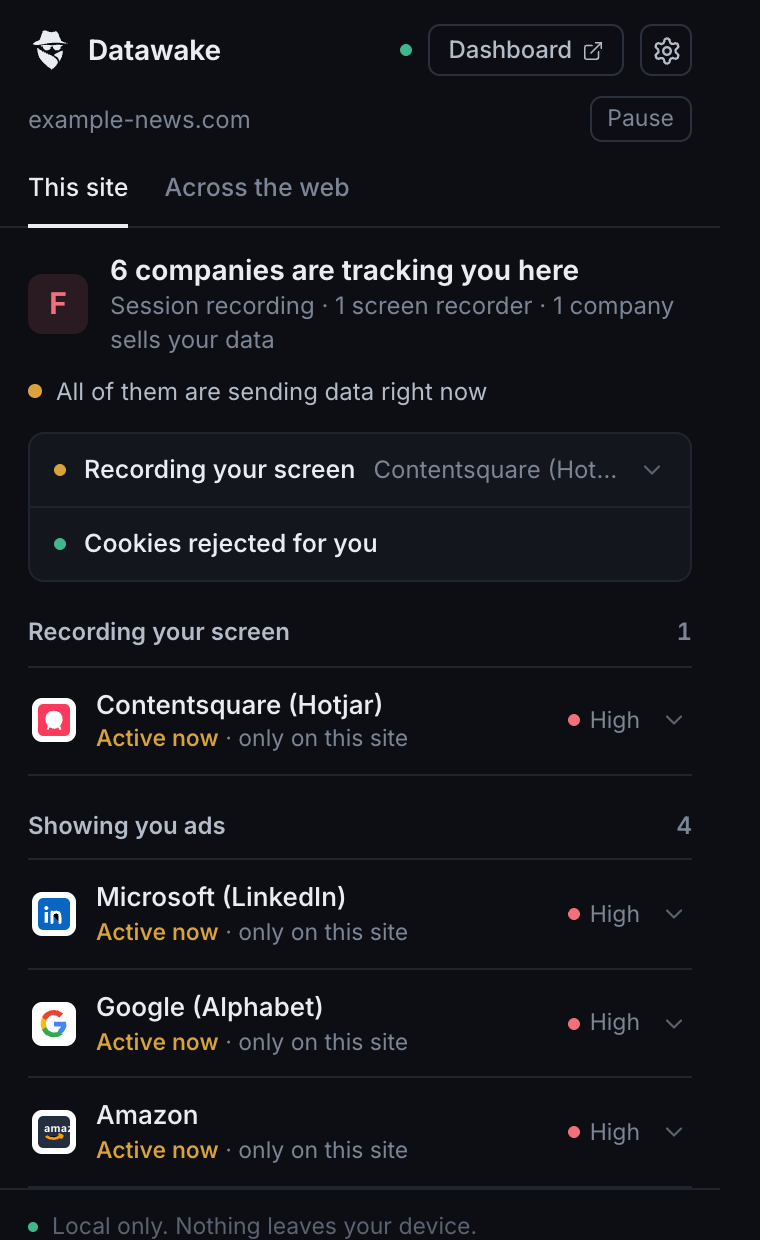
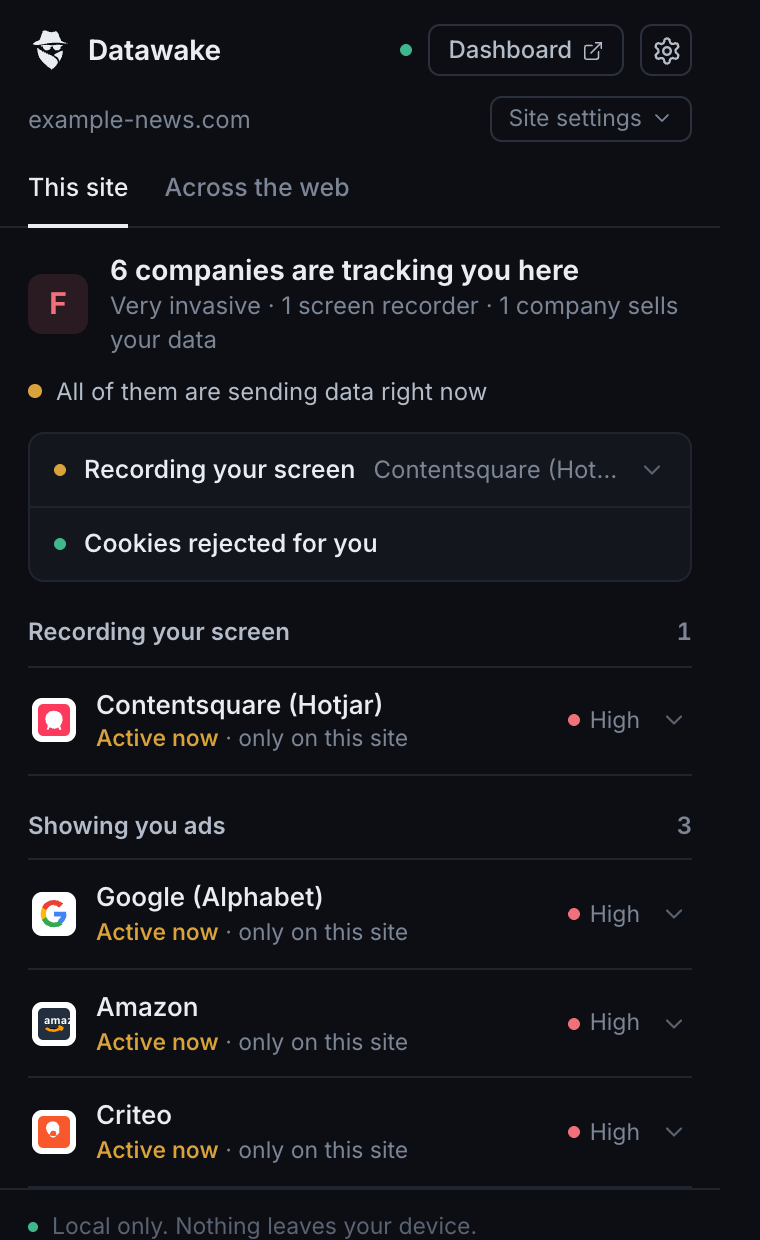
feat: new homepage headline and "Install for free"
The hero now leads with the bigger picture: "Know who's watching. Stop
them following you.", followed by what Datawake does. The page title and
link preview image match, the hero shows the current popup, and every
install button reads "Install for free" or "Add to Chrome for free".

diff --git a/src/styles/global.css b/src/styles/global.css
@@ -401,13 +401,13 @@ h1, h2, h3, h4 {
 
 .hero-inner {
   display: grid;
-  grid-template-columns: 1fr 1fr;
+  grid-template-columns: 1.25fr 1fr;
   align-items: center;
   gap: 60px;
 }
 
 .hero h1 {
-  font-size: clamp(36px, 5vw, 58px);
+  font-size: clamp(34px, 4.2vw, 50px);
   font-family: 'DM Sans', sans-serif;
   font-weight: 700;
   color: var(--navy);
